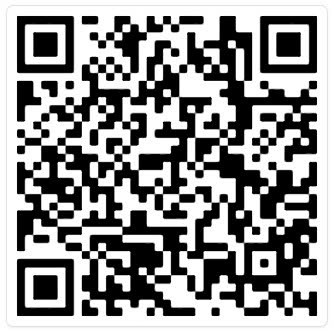
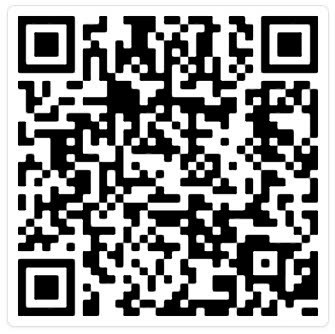
fix: Update Mentora build link and enhance Notifee integration in the app

diff --git a/src/screens/StopwatchScreen.jsx b/src/screens/StopwatchScreen.jsx
@@ -1,9 +1,19 @@
 import React, { useState, useEffect, useRef } from 'react';
+import { View, Text, StyleSheet, TouchableOpacity, ScrollView, Animated, TextInput, Alert, AppState } from 'react-native';
 import { LinearGradient } from 'expo-linear-gradient';
 import * as Notifications from 'expo-notifications';
-import notifee, { AndroidImportance } from '@notifee/react-native';
 import { useTheme } from '../context/ThemeContext';
 import { createStudySession } from '../services/api';
+
+let notifee = null;
+let AndroidImportance = null;
+try {
+  const notifeeModule = require('@notifee/react-native');
+  notifee = notifeeModule.default;
+  AndroidImportance = notifeeModule.AndroidImportance;
+} catch (err) {
+  console.warn('Notifee native module not found.');
+}
 
 Notifications.setNotificationHandler({
   handleNotification: async () => ({
@@ -52,29 +62,39 @@ export default function StopwatchScreen({ navigation }) {
   }, [isRunning, time, mode]);
 
   const startForegroundService = async () => {
-    const channelId = await notifee.createChannel({
-      id: 'timer',
-      name: 'Stopwatch Timer',
-      importance: AndroidImportance.DEFAULT,
-    });
+    if (!notifee) return;
+    try {
+      const channelId = await notifee.createChannel({
+        id: 'timer',
+        name: 'Stopwatch Timer',
+        importance: AndroidImportance.DEFAULT,
+      });
 
-    await notifee.displayNotification({
-      id: 'timer_notification',
-      title: mode === 'stopwatch' ? '⏱ Đồng hồ bấm giờ' : '🍅 Pomodoro (25\')',
-      body: 'Thời gian đang chạy...',
-      android: {
-        channelId,
-        asForegroundService: true,
-        ongoing: true,
-        usesChronometer: true,
-        chronometerDirection: mode === 'stopwatch' ? 'up' : 'down',
-        when: expectedTimeRef.current,
-      },
-    });
+      await notifee.displayNotification({
+        id: 'timer_notification',
+        title: mode === 'stopwatch' ? '⏱ Đồng hồ bấm giờ' : '🍅 Pomodoro (25\')',
+        body: 'Thời gian đang chạy...',
+        android: {
+          channelId,
+          asForegroundService: true,
+          ongoing: true,
+          usesChronometer: true,
+          chronometerDirection: mode === 'stopwatch' ? 'up' : 'down',
+          when: expectedTimeRef.current,
+        },
+      });
+    } catch (err) {
+      console.warn('Notifee display failed:', err);
+    }
   };
 
   const stopForegroundService = async () => {
-    await notifee.stopForegroundService();
+    if (!notifee) return;
+    try {
+      await notifee.stopForegroundService();
+    } catch (err) {
+      console.warn('Notifee stop failed:', err);
+    }
   };
 
   useEffect(() => {
@@ -100,14 +120,16 @@ export default function StopwatchScreen({ navigation }) {
             setIsRunning(false);
             setTime(0);
             
-            notifee.displayNotification({
-              title: '🍅 Pomodoro hoàn thành!',
-              body: 'Đã hết 25 phút, bạn làm tốt lắm!',
-              android: {
-                channelId: 'timer',
-                importance: AndroidImportance.HIGH,
-              }
-            });
+            if (notifee) {
+              notifee.displayNotification({
+                title: '🍅 Pomodoro hoàn thành!',
+                body: 'Đã hết 25 phút, bạn làm tốt lắm!',
+                android: {
+                  channelId: 'timer',
+                  importance: AndroidImportance.HIGH,
+                }
+              });
+            }
           } else {
             setTime(newTime);
           }

diff --git a/index.js b/index.js
@@ -1,19 +1,35 @@
 import { registerRootComponent } from 'expo';
-import notifee, { EventType } from '@notifee/react-native';
+
+let notifee = null;
+let EventType = null;
+try {
+  const notifeeModule = require('@notifee/react-native');
+  notifee = notifeeModule.default;
+  EventType = notifeeModule.EventType;
+} catch (err) {
+  console.warn('Notifee native module not found. Chạy App trên máy ảo sẽ bỏ qua tính năng Timer.');
+}
 
 import App from './App';
 
-notifee.registerForegroundService((notification) => {
-  return new Promise(() => {
-    // Keep foreground service running infinitely until stopped manually
-  });
-});
+if (notifee && EventType) {
+  try {
+    notifee.registerForegroundService((notification) => {
+      return new Promise(() => {
+        // Keep foreground service running infinitely until stopped manually
+      });
+    });
 
-notifee.onBackgroundEvent(async ({ type, detail }) => {
-  if (type === EventType.DISMISSED || type === EventType.ACTION_PRESS) {
-    await notifee.stopForegroundService();
+    notifee.onBackgroundEvent(async ({ type, detail }) => {
+      if (type === EventType.DISMISSED || type === EventType.ACTION_PRESS) {
+        await notifee.stopForegroundService();
+      }
+    });
+  } catch (err) {
+    console.warn('Notifee service registration failed. This is expected in Expo Go.');
   }
-});
+}
+
 
 // registerRootComponent calls AppRegistry.registerComponent('main', () => App);
 // It also ensures that whether you load the app in Expo Go or in a native build,

diff --git a/README.md b/README.md
@@ -47,7 +47,7 @@ Mở ứng dụng Camera hoặc trình quét mã QR trên điện thoại Androi
 
 ### 2. Truy cập Link trực tiếp
 Bấm vào link bên dưới để tới trang cài đặt Build của Expo:
-👉 [**Tải Mentora Build Preview**](https://expo.dev/accounts/ngocthanhhx7/projects/SmartLearn_AI/builds/49cee254-4448-4453-86dd-2cd8c1a3b7f1)
+👉 [**Tải Mentora Build Preview**](https://expo.dev/accounts/ngocthanhhx7/projects/mentora/builds/03213ce3-4b66-4e0a-851f-d068f28952c2)
 
 ---
 
